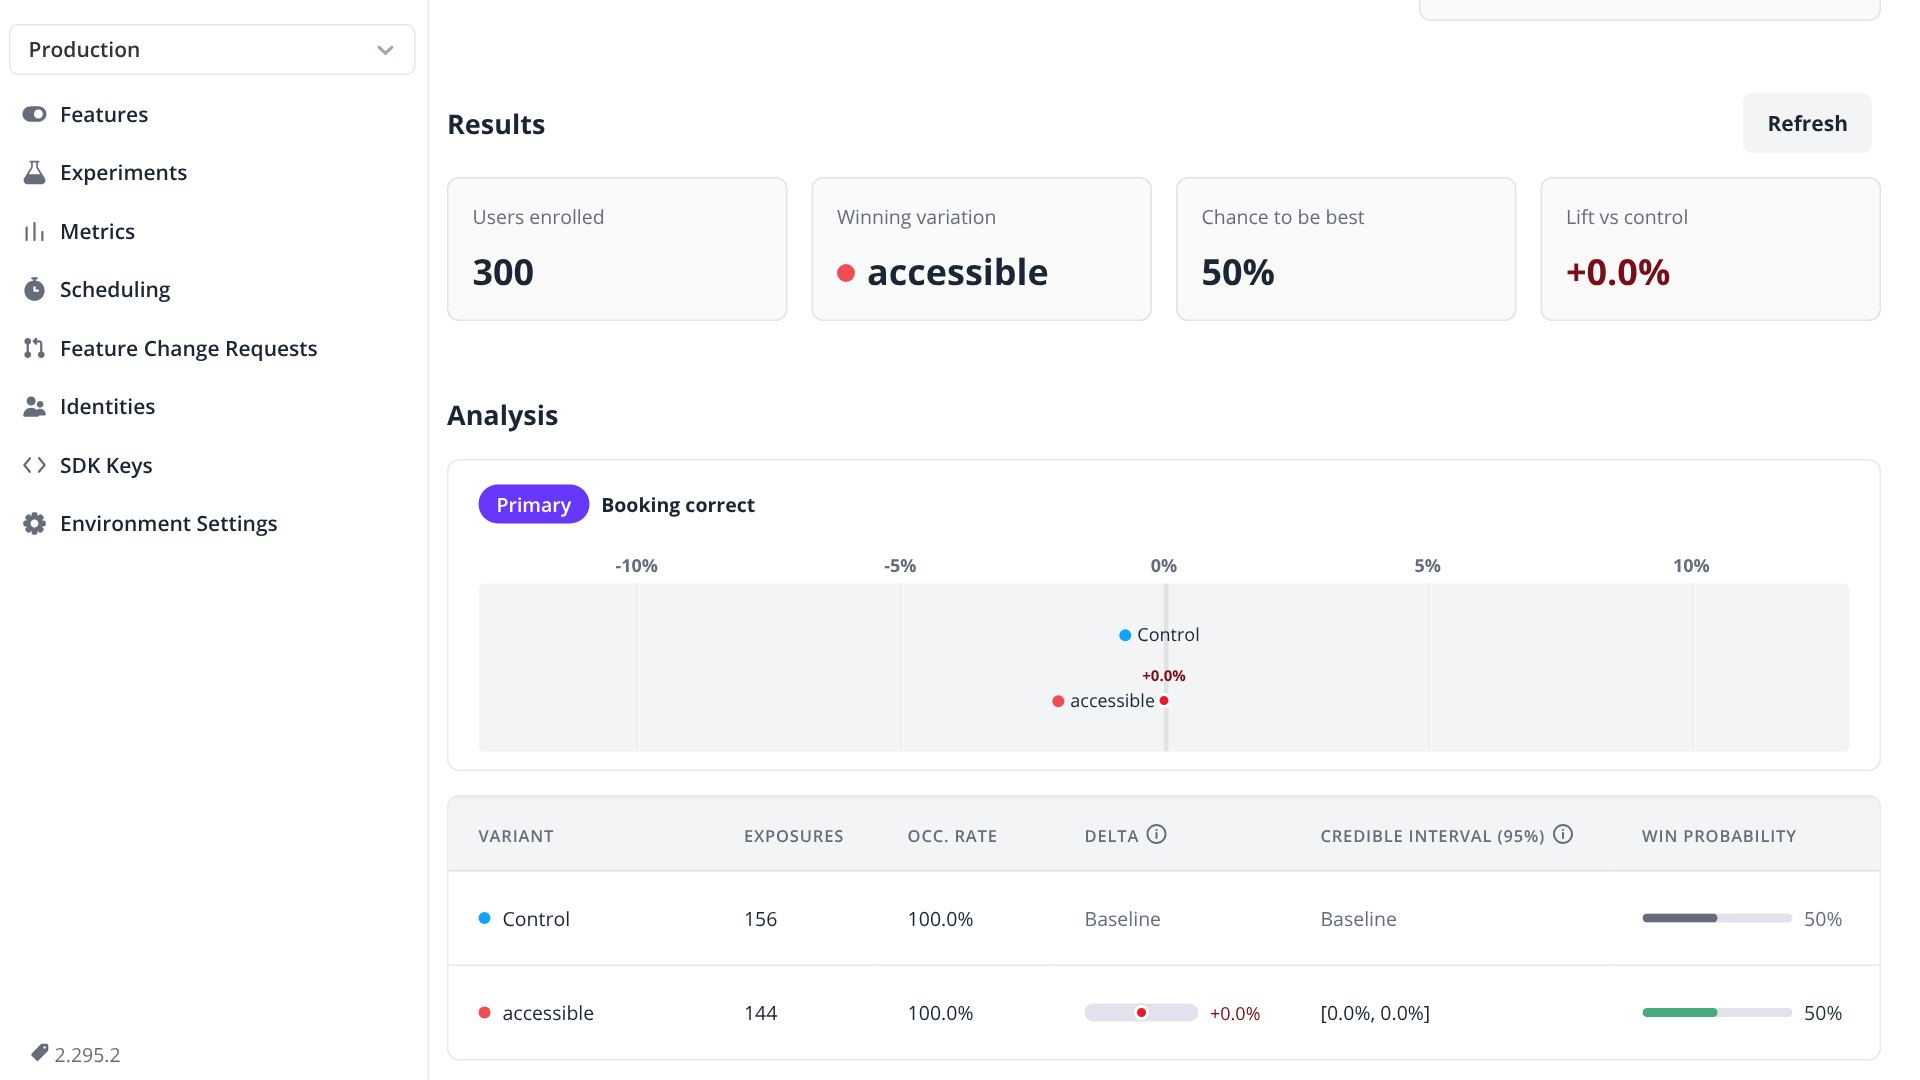
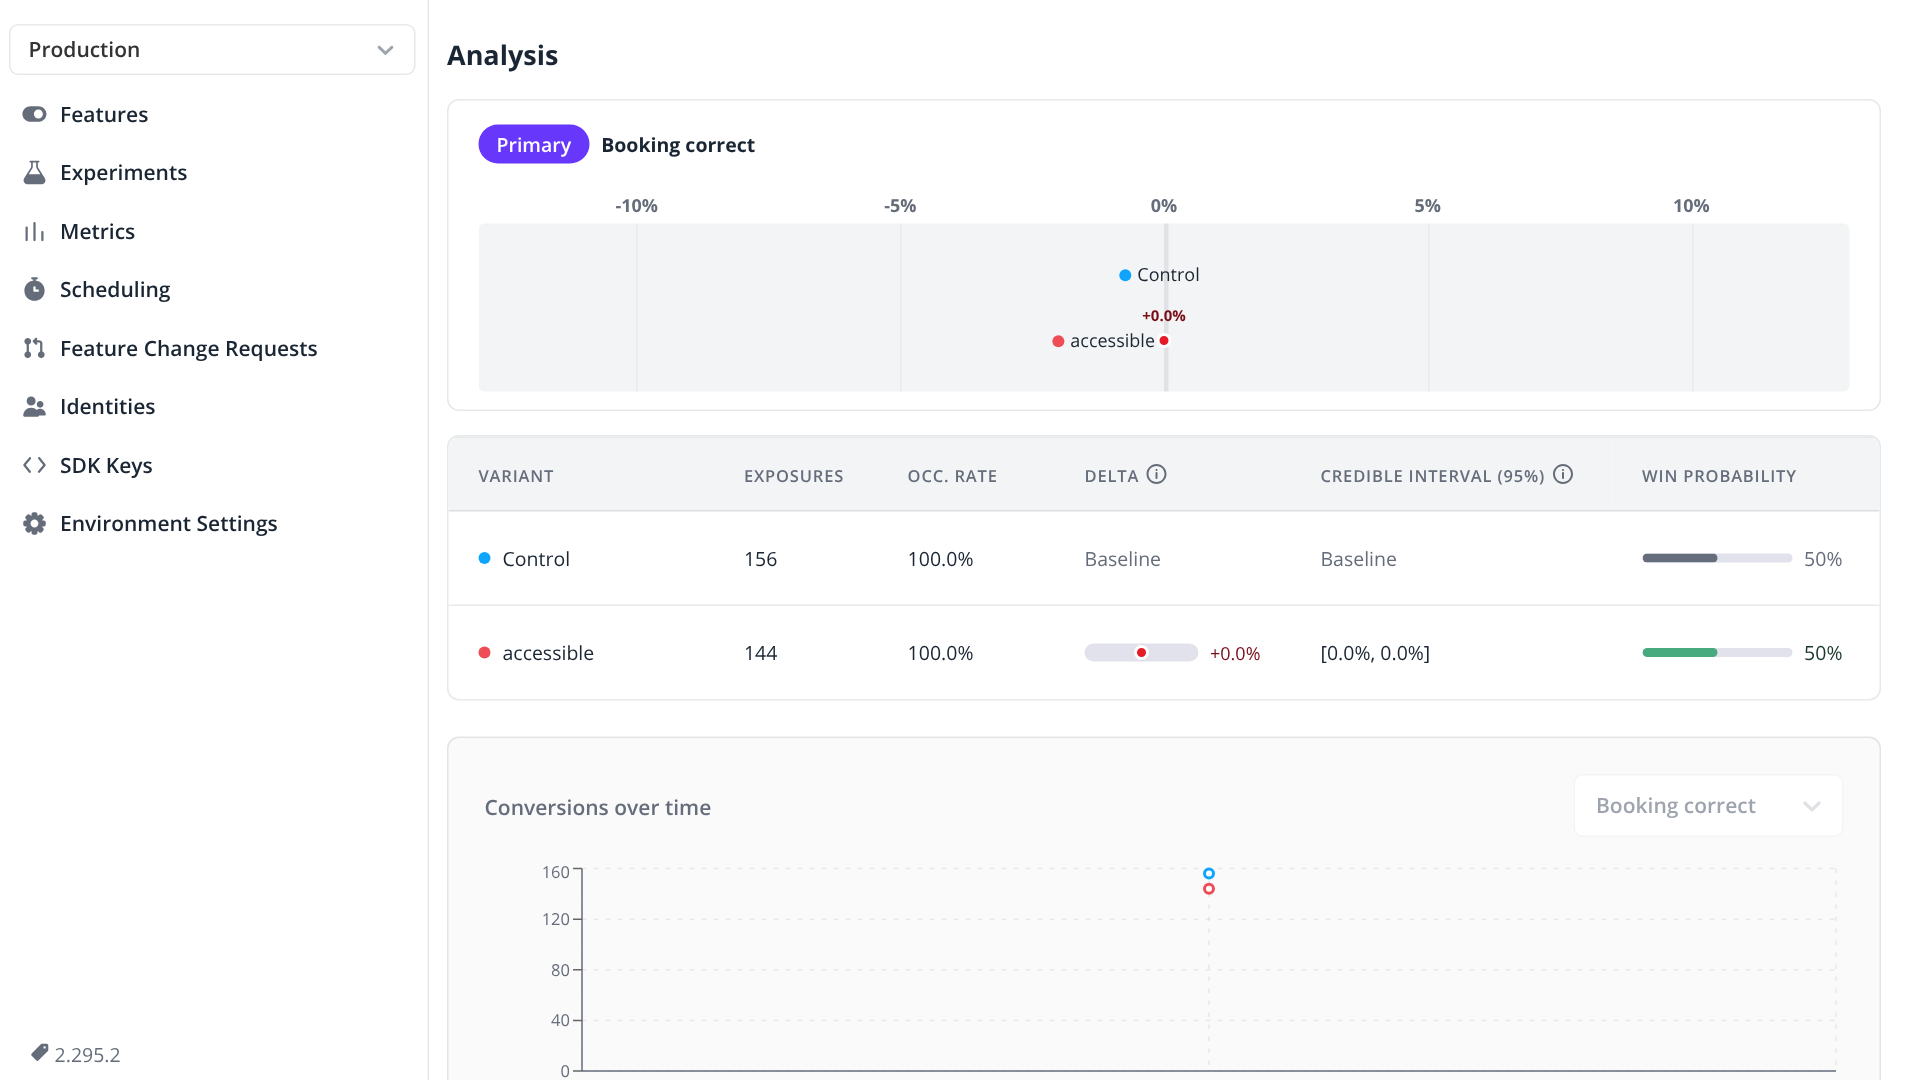
Write the video script from the production outputs
Every results scene reads a real file: the pre-launch check and start
output, Flagsmith's results as fx printed them, and saved screenshots of
the Flagsmith experiment page. The two filmed guests now use the brief
of a production guest whose preferred time was sold out, which is where
the two versions behaved differently. The closing scene waits on the
ship decision.

Claude-Session: https://claude.ai/code/session_01TEjb3ctGchb2FtFV98W7jM

diff --git a/experiments/results/README.md b/experiments/results/README.md
@@ -62,6 +62,6 @@ The detour counts, their classification and the token breakdown are exploratory.
 | `guests.csv` | One row per guest: version, outcome, actions, extra actions, turns, tokens. |
 | `summary.json` | Per-version totals, means and exact bounds. |
 | `flagsmith-experiment.json`, `flagsmith-results.json` | The experiment and its results as Flagsmith's API returned them. |
-| `transcripts/` | Six complete guest transcripts: the shortest run on each version, the three longest detours and one stepper detour. |
+| `transcripts/` | Seven complete guest transcripts: the shortest run on each version, the three longest detours, one stepper detour, and one accessible guest meeting a sold-out time. |
 | `results.html`, `results.png` | The figure. |
 | [`../approvals.tsv`](../approvals.tsv) | Who approved what, and what was refused. |
